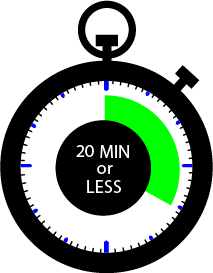
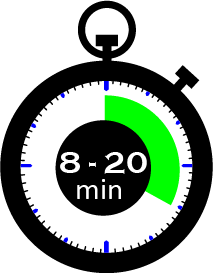
44

Changed region(s): [[0.2817, 0.5275, 0.7042, 0.7326]]

diff --git a/helper/templates/helper/home.html b/helper/templates/helper/home.html
@@ -45,9 +45,9 @@
                     </a>
                     <div class="dropdown-menu" aria-labelledby="navbarDropdown">
                                 <a class="dropdown-item" href="{% url 'help:fuel_delivery'%}">Fuel delivery</a>
-                                <a class="dropdown-item" href="{% url 'help:jump_start'%}">Jump start car</a>
                                 <a class="dropdown-item" href="{% url 'help:unlock_car'%}">Car lockout service</a>
-                                <a class="dropdown-item" href="{% url 'help:unfreeze'%}">Unfreeze car door</a>
+                                <a class="dropdown-item" href="{% url 'help:jump_start'%}">Jump start car</a>
+
 
                     </div>
                 </li>
@@ -164,10 +164,10 @@
             </form>
         </div>
 
-            <img src="/media/media/here90Asset_24.png" alt="roadside assistance" style="width: 150px; display: block; margin-top: 10px">
+            <img src="/media/media/jumpstart_clock.png" alt="roadside assistance" style="width: 150px; display: block; margin-top: 10px">
         <div align="center" style="border: 2px solid white; margin-top: 5px; padding: 5px; width: 335px; background-color: #29abe2; border-radius: 7px">
             <h5 style="color: white">FAST</h5>
-        <h5 style="color: white">Will get to you in 10-25 minutes or less</h5>
+        <h5 style="color: white">Will get to you in 8-20 minutes</h5>
         </div>
 
 
@@ -178,7 +178,7 @@
             <div style="border: 1px solid black; width: 335px; height: 240px; background-color: #bce2b7; border-radius: 7px">
                 <p style="border: black 1px solid; background-color: black; color: white; width: 300px; border-radius: 7px; margin-top: 5px">Our price</p>
                 <img src="/media/media/jumpstart_ourprice.png" alt="free jump start" style="width: 180px;">
-                <img src="/media/media/Asset_17.png" alt="free jump start chicago" style="width: 240px">
+                <img src="/media/media/car_jump_price.png" alt="free jump start chicago" style="width: 240px">
             </div>
 
             <button id="dis-compe" class="btn btn-danger" style="margin-top: 8px">Check competition prices</button>
@@ -186,11 +186,11 @@
             <div style="border: black solid 1px; width: 335px; height: 350px; background-color: #cda4a4; border-radius: 7px; margin-top: 5px">
                 <p style="border: black 1px solid; background-color: black; color: white; width: 300px; border-radius: 7px; margin-top: 5px">Our Competition prices</p>
                 <img src="/media/media/jumpstart_urg.png" alt="jump start service" style="width: 180px; margin-top: 10px">
-                <img src="/media/media/jumpstart_price.png" alt="free jump start" style="width: 150px">
+                <img src="/media/media/here901Asset_27.png" alt="free jump start" style="width: 150px">
                 <a style="display: block" href="https://www.geturgently.com">Don't believe us? Check price</a>
 
                 <img src="/media/media/jumpstart_hon.png" alt="free jump start" style="width: 180px; margin-top: 20px">
-                <img src="/media/media/jumpstart_price.png" alt="car jump start service" style="width: 150px">
+                <img src="/media/media/here901Asset_26.png" alt="car jump start service" style="width: 150px">
                 <a style="display: block" href="https://mw.honkforhelp.com">Don't believe us? Check price</a>
             </div>
             </div>
@@ -350,47 +350,6 @@
 
             {% endif %}
 
-            {% if not x.freeze %}
-                <div class="col-lg-6 col-12">
-                    <div class="card_width card purple_shadow">
-                        <img class="card-img-top"
-                             src="/media/media/jumpstart_frozen.jpg" alt="unfreeze car lock">
-
-                        <div class="card-body">
-                            <h5 class="card-title">Frozen door?</h5>
-                            <p class="card-text">We can unfreeze your car door in less than 3 minutes</p>
-                            <p class="price card-text">price: $39</p>
-                                <form action="{% url 'help:add'%}" method="post">
-                                    {% csrf_token %}
-                                    <input type='hidden' name="frozen" value="frozen">
-                                    <button type="submit" class="btn btn-success">Click to Add Service</button>
-                                </form>
-                      </div>
-                    </div>
-                </div>
-            {% else %}
-                <div class="col-lg-6 col-12">
-                    <div class="card_width card purple_shadow">
-                        <div class="card-img-caption">
-                            <div class="card-text">
-                                <h1 class="added">Added</h1>
-                            </div>
-                            <img class="card-img-top"
-                             src="/media/media/jumpstart_frozen.jpg" alt="unfreeze car lock">
-                        </div>
-
-                        <div class="card-body">
-                            <h5 class="card-title">Frozen door?</h5>
-                            <p class="card-text">We can unfreeze your car door in less than 3 minutes</p>
-                            <p class="price card-text">price: $39</p>
-                            <a href="{% url 'help:undo'%}"><button class="btn btn-danger">Remove All</button></a>
-                      </div>
-                    </div>
-                </div>
-            {% endif %}
-
-
-
 
             {% if not x.gas %}
                 <div class="col-lg-6 col-12">
@@ -490,7 +449,6 @@
             <p><span style="font-size: 22px">Unlock Car</span></p>
             <p><span style="font-size: 22px">Fuel Delivery</span></p>
             <p><span style="font-size: 22px">Jump Start Car Service</span></p>
-            <p><span style="font-size: 22px">Unfreeze Frozen door</span></p>
         </div>
 
     </div>
